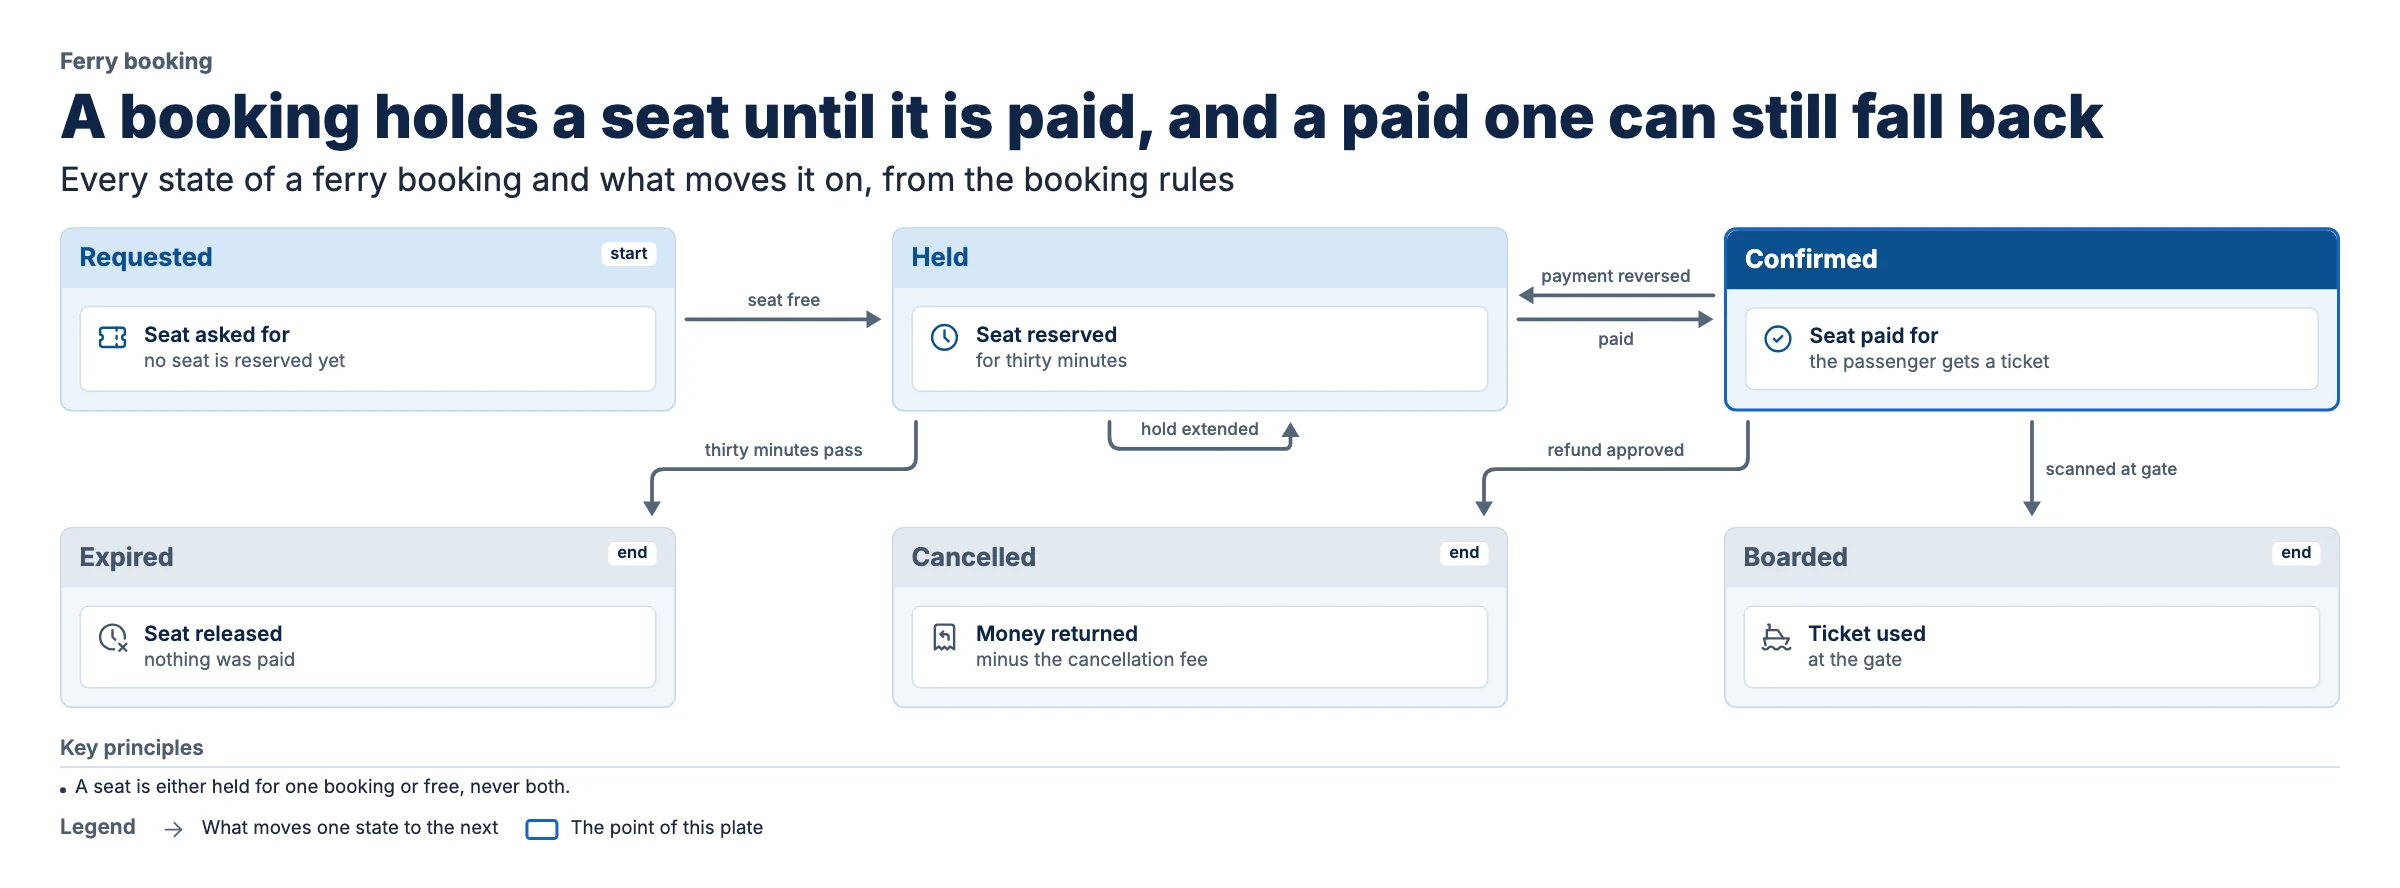
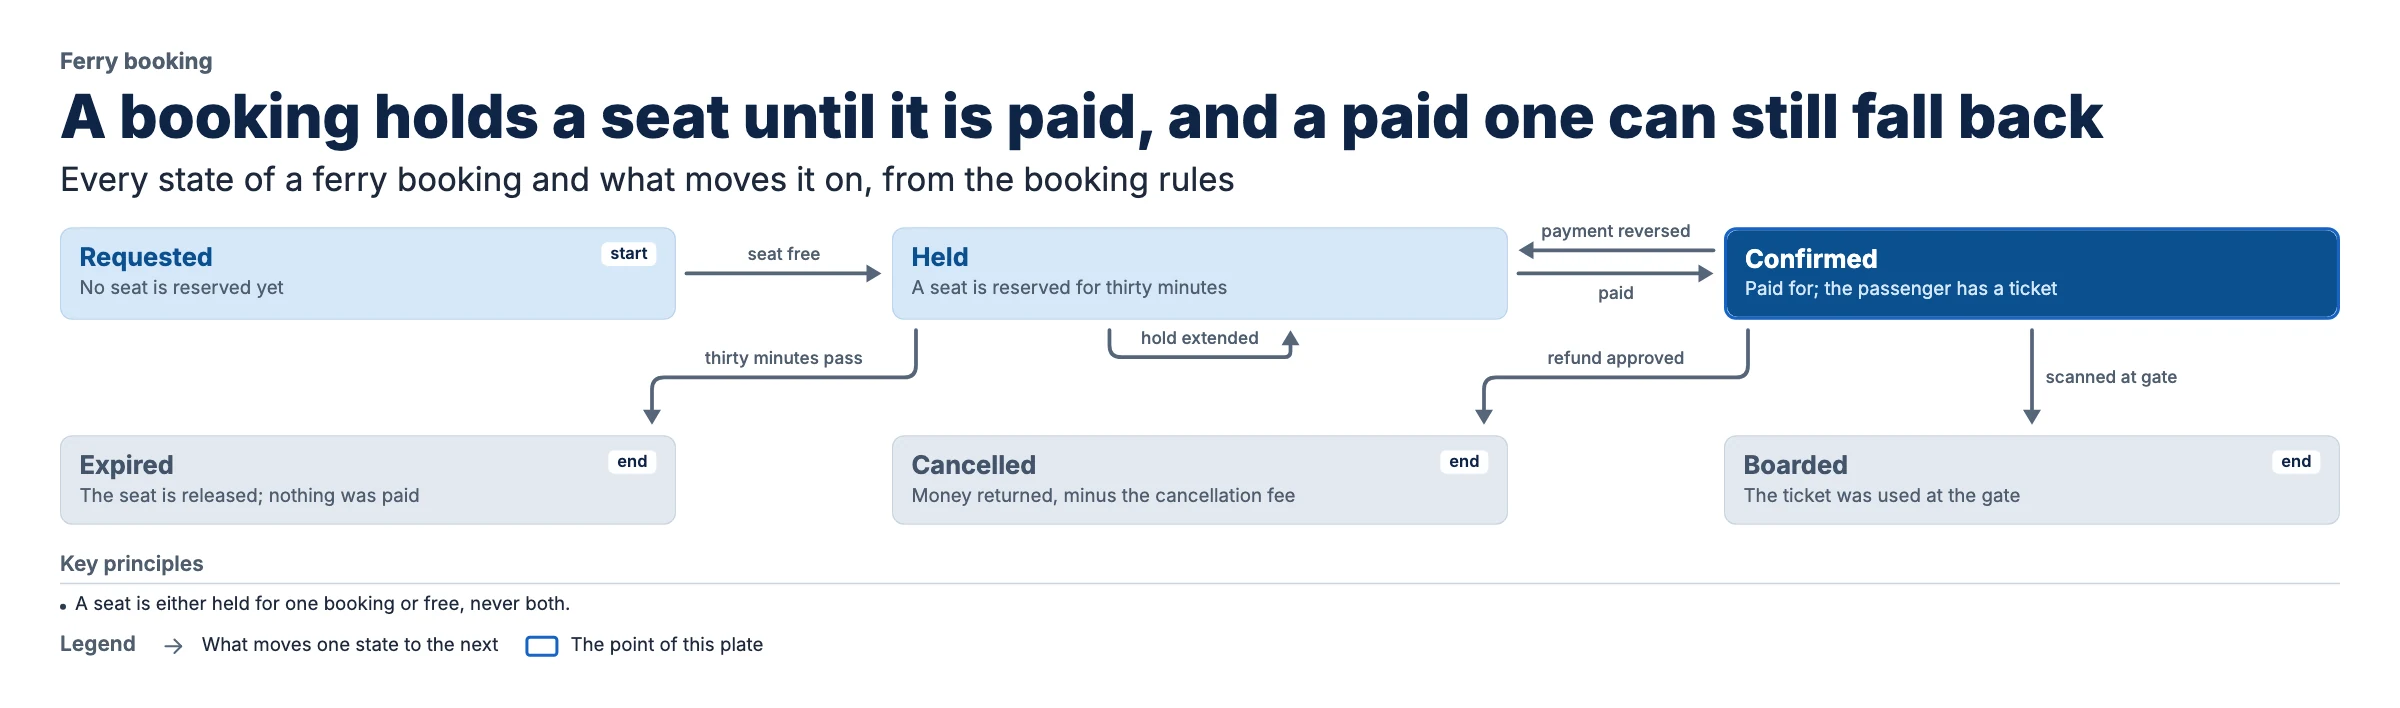
Draw a state as its title and a subtitle, without a coined card
The state-machine starter and example gave every state one card, and a card needs a name the sources do not give for a
state: "Seat asked for", "Seat reserved". Agents followed. In the last eval two runs failed the automated half for
invented card names ("Tool held", "Tool still out") and a third was faulted for inventing where a tool waits. A state
is now its title, with what holds in it in the subtitle; the example is redrawn that way (six header panels, no cards),
the starter has no cards, and the guide says a card is only for a thing the sources name in that state.

diff --git a/tests/test_archetypes.py b/tests/test_archetypes.py
@@ -201,7 +201,7 @@ def test_a_state_machine_marks_its_start_and_ends():
     spec = archetypes.get("state-machine").expand(sp.load_spec(ROOT / "examples" / "ferry-booking-state-machine.yaml"))
     assert {p["id"]: p.get("mark") for p in spec["panels"]} == {
         "requested": "start", "held": None, "confirmed": None, "expired": "end", "cancelled": "end", "boarded": "end"}
-    assert any(line.startswith("Requested [start]") for line in lines(spec))
+    assert any(line.startswith("Requested") and line.endswith("[start]") for line in lines(spec))
 
 
 @pytest.mark.parametrize(("fn", "says"), [

diff --git a/SKILL.md b/SKILL.md
@@ -56,7 +56,8 @@ it. Then pick the layout on the reader's question. When unsure, use `column-flow
 A `capability-map`, `comparison` or `quadrant` says it by position and needs no arrows; a `hierarchy` draws them from
 its tree. On those, the arrow rules below apply only to the arrows you do draw. On a `data-model`, a panel is an entity that
 holds `fields` instead of cards, and its arrows end on panels. On a `state-machine` and a `decision-tree`, a panel is a state,
-or a question or outcome; each arrow ends on a panel and must say in its label what causes it, or which answer it is.
+or a question or outcome, and needs no cards; each arrow ends on a panel and must say in its label what causes it, or
+which answer it is.
 
 Settle the reader's language (`nl` or `en`, following the user; in `nl` technical terms stay English). More than 6 panels (on a `hierarchy` or `decision-tree`, more than 8 at the ends of the tree) or 30 cards is two plates, each with its own message: a series (`series`, `part`, `of`); once every part
 builds, run `"$PY" "$SKILL/scripts/plate.py" series plates/*.yaml` so the parts agree (language, what arrows mean or a subtitle that says so, one colour

diff --git a/references/archetypes.md b/references/archetypes.md
@@ -304,8 +304,9 @@ layout:
 
 - Set `flows_mean: transition`. Every arrow runs between panels and has a `label`, the event that causes it, in a word or two.
   `{from: held, to: held, label: "hold extended"}` draws an arrow back to its own state.
-- A panel's cards say what holds in that state; give it none when the sources say nothing more. The layout sets the colours, one for
-  a state and one for an end, whatever `role` a panel names.
+- A state is its title, and its `subtitle` says what holds in it. Give it no cards: a card needs a name, and for a state the
+  sources give none, so one would be coined ("Seat asked for"). A thing the sources do name in a state (a hold timer, a fee)
+  may be a card. The layout sets the colours, one for a state and one for an end, whatever `role` a panel names.
 - Lint warns about a state the start cannot reach, a state nothing leaves that is not in `ends`, and an end that something leaves.
 - Lay out the main path along the first row, and the states it can fall out to under it. When an arrow crosses or a label has no
   room, move a state; past about ten transitions on one plate, labels start to run out of room.

diff --git a/CHANGELOG.md b/CHANGELOG.md
@@ -26,6 +26,9 @@ All notable changes to this project. The format follows [Keep a Changelog](https
   judges said, so a new check is tried on a hundred judged plates before any agent runs.
 
 ### Changed
+- A state in a `state-machine` is its title and a subtitle, without cards. The starter and the example gave every state a card
+  with a coined name ("Seat asked for"), and agents followed: two runs in the last eval failed for invented card names, and a
+  third invented where a tool waits. Both are redrawn, and the guide says why.
 - A step badge sits beside a short dashed arrow, not on it: across one gutter the disc hid the whole shaft, so an assumed
   arrow or a reply on a numbered route could not be told from a fact. Solid arrows and long runs keep the badge on the line.
 - `void` warns sooner at a panel: from 48 px below a panel or zone that ends above its row, and from 64 px inside a panel; an
